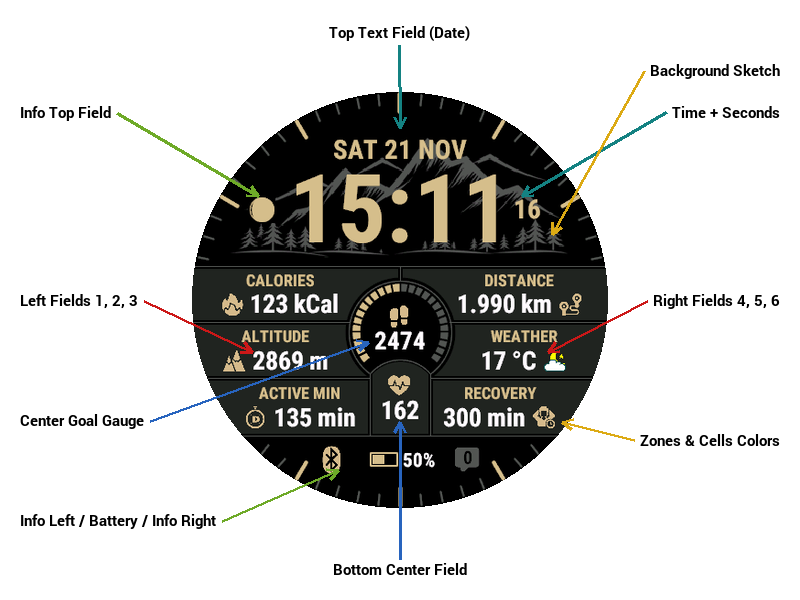
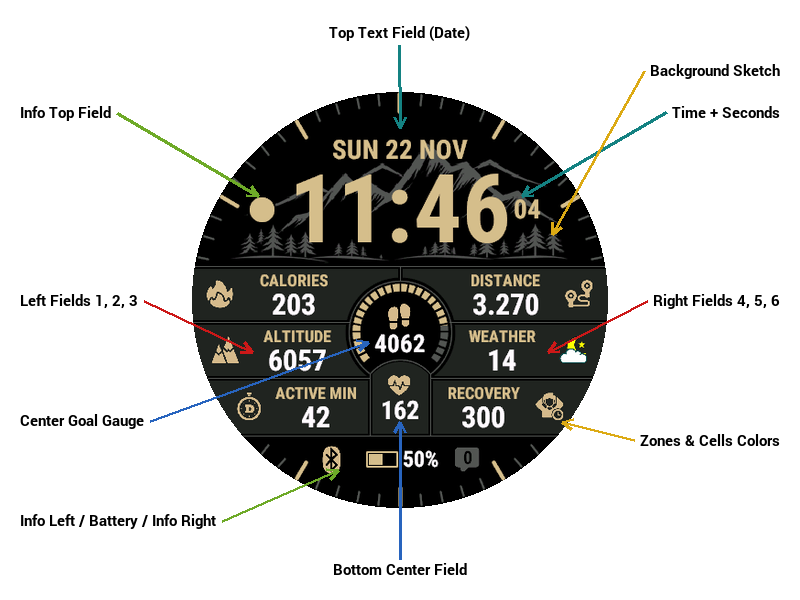
2026_11_22 Docs: color table in settings order, field display options, refreshed images

Changed region(s): [[0.25, 0.21, 0.75, 0.72], [0.4375, 0.75, 0.5625, 0.78]]

diff --git a/Manual_ES.md b/Manual_ES.md
@@ -254,7 +254,7 @@ Elige cómo se muestran los valores de duración en la esfera:
 
 #### Visualización de Títulos, Iconos y Unidades
 
-**Mostrar los títulos de los 6 campos laterales** / **Mostrar los iconos de los 6 campos laterales** / **Mostrar las unidades de los 6 campos laterales** (activados por defecto): oculta los títulos, iconos y/o unidades de las 6 celdas. Los elementos restantes se recentran en la celda y los valores usan una fuente más grande.
+**Mostrar los títulos de los 6 campos laterales** / **Mostrar los iconos de los 6 campos laterales** / **Mostrar las unidades de los 6 campos laterales** (títulos e iconos activados por defecto, unidades desactivadas por defecto): oculta los títulos, iconos y/o unidades de las 6 celdas. Los elementos restantes se recentran en la celda. Ocultar los iconos o las unidades agranda la fuente de los valores (misma fuente en los 6 campos). El icono de las condiciones meteorológicas siempre se muestra.
 
 #### Títulos Personalizados
 
@@ -297,35 +297,35 @@ BASIC OUTDOOR ofrece **31 colores personalizables**:
 | ID | Elemento |
 |----|----------|
 | 0 | Color de fondo |
-| 1 | Marcas de minutos y separadores |
+| 18 | Fondo de la zona superior |
+| 29 | Boceto de fondo (= fondo para ocultar) |
+| 19 | Fondo de las celdas de datos |
+| 20 | Fondo de la zona inferior |
+| 28 | Líneas separadoras de zonas (= fondo para ocultar) |
+| 1 | Marcas de minutos |
 | 2 | Marcas de horas |
-| 3 | Texto de la fecha |
 | 4 | Horas |
 | 5 | Separador de la hora |
 | 6 | Minutos |
 | 7 | Segundos y AM/PM |
-| 8 | Títulos de los campos |
+| 3 | Texto de la fecha |
 | 9 | Icono del indicador central |
-| 10 | Valores de los campos |
-| 11 | Indicador central Off |
 | 12 | Indicador central On |
-| 13 | Icono del campo inferior central |
-| 14 | Info Off |
-| 15 | Info Izquierda On |
-| 16 | Icono de batería |
-| 17 | Info Derecha On |
-| 18 | Fondo de la zona superior |
-| 19 | Fondo de las celdas de datos |
-| 20 | Fondo de la zona inferior |
-| 21 | Info Superior On |
+| 11 | Indicador central Off |
+| 8 | Títulos de los campos |
+| 10 | Valores de los campos |
 | 22 | Icono campo izquierda arriba |
 | 23 | Icono campo izquierda centro |
 | 24 | Icono campo izquierda abajo |
 | 25 | Icono campo derecha arriba |
 | 26 | Icono campo derecha centro |
 | 27 | Icono campo derecha abajo |
-| 28 | Líneas separadoras de zonas (= fondo para ocultar) |
-| 29 | Boceto de fondo (= fondo para ocultar) |
+| 13 | Icono del campo inferior central |
+| 16 | Icono de batería |
+| 14 | Info Off |
+| 21 | Info Superior On |
+| 15 | Info Izquierda On |
+| 17 | Info Derecha On |
 | 30 | Salvapantallas (hora, fecha, boceto, batería) |
 
 ### Paleta de Colores Predefinidos

diff --git a/Manual_FR.md b/Manual_FR.md
@@ -254,7 +254,7 @@ Choisissez l'affichage des valeurs de durée sur le cadran :
 
 #### Affichage des Titres, Icônes et Unités
 
-**Afficher les titres des 6 champs latéraux** / **Afficher les icônes des 6 champs latéraux** / **Afficher les unités des 6 champs latéraux** (activés par défaut) : masque les titres, les icônes et/ou les unités des 6 cellules. Les éléments restants sont recentrés dans la cellule et les valeurs passent dans une police plus grande.
+**Afficher les titres des 6 champs latéraux** / **Afficher les icônes des 6 champs latéraux** / **Afficher les unités des 6 champs latéraux** (titres et icônes activés par défaut, unités désactivées par défaut) : masque les titres, les icônes et/ou les unités des 6 cellules. Les éléments restants sont recentrés dans la cellule. Masquer les icônes ou les unités agrandit la police des valeurs (même police dans les 6 champs). L'icône des conditions météo reste toujours affichée.
 
 #### Titres Personnalisés
 
@@ -297,35 +297,35 @@ BASIC OUTDOOR offre **31 couleurs personnalisables** :
 | ID | Élément |
 |----|---------|
 | 0 | Couleur de fond |
-| 1 | Graduations minutes & séparateurs |
+| 18 | Fond de la zone haute |
+| 29 | Esquisse de fond (= fond pour masquer) |
+| 19 | Fond des cellules de données |
+| 20 | Fond de la zone basse |
+| 28 | Lignes de séparation des zones (= fond pour masquer) |
+| 1 | Graduations minutes |
 | 2 | Graduations heures |
-| 3 | Texte de la date |
 | 4 | Heures |
 | 5 | Séparateur de l'heure |
 | 6 | Minutes |
 | 7 | Secondes & AM/PM |
-| 8 | Titres des champs |
+| 3 | Texte de la date |
 | 9 | Icône de la jauge centrale |
-| 10 | Valeurs des champs |
-| 11 | Jauge centrale Off |
 | 12 | Jauge centrale On |
-| 13 | Icône du champ bas centre |
-| 14 | Info Off |
-| 15 | Info Gauche On |
-| 16 | Icône batterie |
-| 17 | Info Droite On |
-| 18 | Fond de la zone haute |
-| 19 | Fond des cellules de données |
-| 20 | Fond de la zone basse |
-| 21 | Info Haut On |
+| 11 | Jauge centrale Off |
+| 8 | Titres des champs |
+| 10 | Valeurs des champs |
 | 22 | Icône champ gauche haut |
 | 23 | Icône champ gauche milieu |
 | 24 | Icône champ gauche bas |
 | 25 | Icône champ droite haut |
 | 26 | Icône champ droite milieu |
 | 27 | Icône champ droite bas |
-| 28 | Lignes de séparation des zones (= fond pour masquer) |
-| 29 | Esquisse de fond (= fond pour masquer) |
+| 13 | Icône du champ bas centre |
+| 16 | Icône batterie |
+| 14 | Info Off |
+| 21 | Info Haut On |
+| 15 | Info Gauche On |
+| 17 | Info Droite On |
 | 30 | Économiseur d'écran (heure, date, esquisse, batterie) |
 
 ### Palette de Couleurs Prédéfinies

diff --git a/Manual_EN.md b/Manual_EN.md
@@ -254,7 +254,7 @@ Choose how duration-based values are displayed across the watch face:
 
 #### Titles, Icons & Units Display
 
-**Show Titles Of The 6 Side Fields** / **Show Icons Of The 6 Side Fields** / **Show Units Of The 6 Side Fields** (enabled by default): hide titles, icons and/or units of the 6 data cells. Remaining elements are re-centered in the cell and values get a bigger font.
+**Show Titles Of The 6 Side Fields** / **Show Icons Of The 6 Side Fields** / **Show Units Of The 6 Side Fields** (titles and icons enabled by default, units disabled by default): hide titles, icons and/or units of the 6 data cells. Remaining elements are re-centered in the cell. Hiding icons or units gives the values a bigger font (same font in all 6 fields). The weather condition icon is always shown.
 
 #### Custom Titles
 
@@ -297,35 +297,35 @@ BASIC OUTDOOR offers **31 customizable colors**:
 | ID | Element |
 |----|---------|
 | 0 | Background Color |
-| 1 | Minute Ticks & Separators Color |
+| 18 | Top Zone Background Color |
+| 29 | Background Sketch Color (= background to hide) |
+| 19 | Data Fields Cells Background Color |
+| 20 | Bottom Zone Background Color |
+| 28 | Zones Separator Lines Color (= background to hide) |
+| 1 | Minute Ticks Color |
 | 2 | Hour Ticks Color |
-| 3 | Date Text Color |
 | 4 | Time Hours Color |
 | 5 | Time Separator Color |
 | 6 | Time Minutes Color |
 | 7 | Time Seconds & AM/PM Color |
-| 8 | Data Fields Title Color |
+| 3 | Date Text Color |
 | 9 | Center Gauge Icon Color |
-| 10 | Data Fields Value Color |
-| 11 | Center Gauge Off Color |
 | 12 | Center Gauge On Color |
-| 13 | Bottom Center Field Icon Color |
-| 14 | Info Off Color |
-| 15 | Info Left On Color |
-| 16 | Battery Icon Color |
-| 17 | Info Right On Color |
-| 18 | Top Zone Background Color |
-| 19 | Data Fields Cells Background Color |
-| 20 | Bottom Zone Background Color |
-| 21 | Info Top On Color |
+| 11 | Center Gauge Off Color |
+| 8 | Data Fields Title Color |
+| 10 | Data Fields Value Color |
 | 22 | Left Top Field Icon Color |
 | 23 | Left Middle Field Icon Color |
 | 24 | Left Bottom Field Icon Color |
 | 25 | Right Top Field Icon Color |
 | 26 | Right Middle Field Icon Color |
 | 27 | Right Bottom Field Icon Color |
-| 28 | Zones Separator Lines Color (= background to hide) |
-| 29 | Background Sketch Color (= background to hide) |
+| 13 | Bottom Center Field Icon Color |
+| 16 | Battery Icon Color |
+| 14 | Info Off Color |
+| 21 | Info Top On Color |
+| 15 | Info Left On Color |
+| 17 | Info Right On Color |
 | 30 | Screen Saver Color (time, date, sketch, battery) |
 
 ### Predefined Color Palette

diff --git a/docs/images/README.md b/docs/images/README.md
@@ -9,12 +9,12 @@ This folder contains images used in the documentation.
 | `Banner.jpg` | Main banner for README and manuals |
 | `Kiosk.jpg` | Banner-size showcase of all screenshots (1440x720) |
 | `Display_Overview.png` | Watch face layout overview |
-| `Full_Screen_1.png` | Full display mode screenshot (default settings) |
+| `Full_Screen_1.png` | Full display mode screenshot (default settings: titles and icons, no units) |
 | `Full_Screen_2.png` | Full display mode screenshot (alternate colors and cyclist silhouette) |
-| `Full_Screen_3.png` | Blue accent, Lake background, titles hidden |
-| `Full_Screen_4.png` | White accent, Swimmer silhouette, icons hidden |
+| `Full_Screen_3.png` | Blue accent, Lake background, titles hidden, units shown |
+| `Full_Screen_4.png` | White accent, Swimmer silhouette, icons hidden, units shown |
 | `Full_Screen_5.png` | Green accent, Trail Runner background, one color per field icon |
-| `Full_Screen_6.png` | Red accent, Hiker background, titles and units hidden |
+| `Full_Screen_6.png` | Red accent, Hiker background, titles hidden |
 | `Screen_AOD.png` | Always On Display mode screenshot |
 | `Screen_Saver.png` | Screen saver mode screenshot |
 
